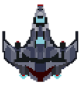
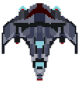
aviones vidas etc

diff --git a/sketch.js b/sketch.js
@@ -1,12 +1,17 @@
-let frames = 10;
+let frames = 12;
 let ancho = 800;
 let largo = 800;
 let posX;
 let posY;
 let plane;
 let ovni;
+let warplane;
+let warplane2;
+let warplane3;
+let heart;
 let bullets;
-
+let bulletovni;
+let lives = 3;
 
 function preload(){
 	plane = new Sprite(400,650,20,20);
@@ -15,8 +20,22 @@ function preload(){
 	ovni = new Sprite(400,50,20,20);
 	ovni.addImg("./enemies/ovni.png");
 
+	warplane = new Sprite(340,50,20,20);
+	warplane.addImg("./enemies/warplane.png");
+
+	warplane2 = new Sprite(370,50,20,20);
+	warplane2.addImg("./enemies/warplane2.png");
+
+	warplane3 = new Sprite(430,50,20,20);
+	warplane3.addImg("./enemies/warplane3.png");
+
 	bullets = new Group();
 	bullets.addImg("./assets/bullet.png");
+
+	rockets = new Group();
+	rockets.addImg("./assets/rocket.png");
+
+	//heart = loadImage("./assets/heart.png");
 }
 
 function setup() {
@@ -25,39 +44,40 @@ function setup() {
 	//canvas.parent("canvas-content")
 	background(150);
 	
-	EvilOvni();
+	Enemies();
+	setInterval(EnemiesBullets, 1500);
+
+	/*image(heart, 0, 750);
+	image(heart, 45, 750);
+	image(heart, 90, 750);*/
+
 }
 
 function draw() {
+	Livess();
+
 	clear();
+
 	strokeWeight(3);
 	noFill();
 	square(0,0,800);
 
-	
-	/*for (let s of allSprites) {
-		if (s.x < -MARGIN) s.x = width + MARGIN;
-		if (s.x > width + MARGIN) s.x = -MARGIN;
-		if (s.y < -MARGIN) s.y = height + MARGIN;
-		if (s.y > height + MARGIN) s.y = -MARGIN;
-	}*/
+	fill(0);
+	textSize(30);
+	text("Vidas: "+lives, 10 ,780);
 
-	
-	/*if (kb.pressed('a')) {
-		plane.vel.x -= 15;
-	}else if (kb.pressed('d')) {
-		plane.vel.x += 15;
-	}else{
-		plane.vel.x = 0;
+	/*plane.overlap(bulletovni || bulletwarplane || bulletwarplane2 || bulletwarplane3|| bullet2warplane3, BulletsColision);
+	function BulletsColision(){
+		
 	}*/
 }
 
 function keyPressed(){
-	if(keyCode === LEFT_ARROW && keyIsDown){
+	if(keyCode === LEFT_ARROW){
 		plane.vel.x -= 18;
 		ovni.vel.x -= 10;
 	}
-	if(keyCode === RIGHT_ARROW && keyIsDown){
+	if(keyCode === RIGHT_ARROW){
 		plane.vel.x += 18;
 		ovni.vel.x += 10;
 	}
@@ -86,11 +106,46 @@ function mousePressed(){
 		bullet.life = 30; 
 }
 
-function EvilOvni(){
+function Enemies(){
 	ovni.life = 100;
 	ovni.vel.y = 10;
 
+	warplane.life = 100;
+	warplane.vel.y = 12;
+
+	warplane2.life = 100;
+	warplane2.vel.y = 15;
+
+	warplane3.life = 100;
+	warplane3.vel.y = 18;
+
+}
+
+function EnemiesBullets(){
 	bulletovni = new bullets.Sprite(ovni.x, ovni.y +50);
 	bulletovni.vel.y = 20;
 	bulletovni.life = 40;
+
+	bulletwarplane = new bullets.Sprite(warplane.x, warplane.y +50);
+	bulletwarplane.vel.y = 20;
+	bulletwarplane.life = 40;
+
+	bulletwarplane2 = new bullets.Sprite(warplane2.x, warplane2.y +50);
+	bulletwarplane2.vel.y = 20;
+	bulletwarplane2.life = 40;
+
+	bulletwarplane3 = new rockets.Sprite(warplane3.x-35, warplane3.y +50);
+	bulle2twarplane3 = new rockets.Sprite(warplane3.x+35, warplane3.y +50);
+	bulletwarplane3.vel.y = 20;
+	bulle2twarplane3.vel.y = 20;
+	bulletwarplane3.life = 40;
+	bulle2twarplane3.life = 40;
+}
+
+function Livess(){
+	plane.overlap(bulletovni, colision);
+		function colision(plane, bulletovni) {
+			bulletovni.remove();
+			lives--;
+		}
 }
